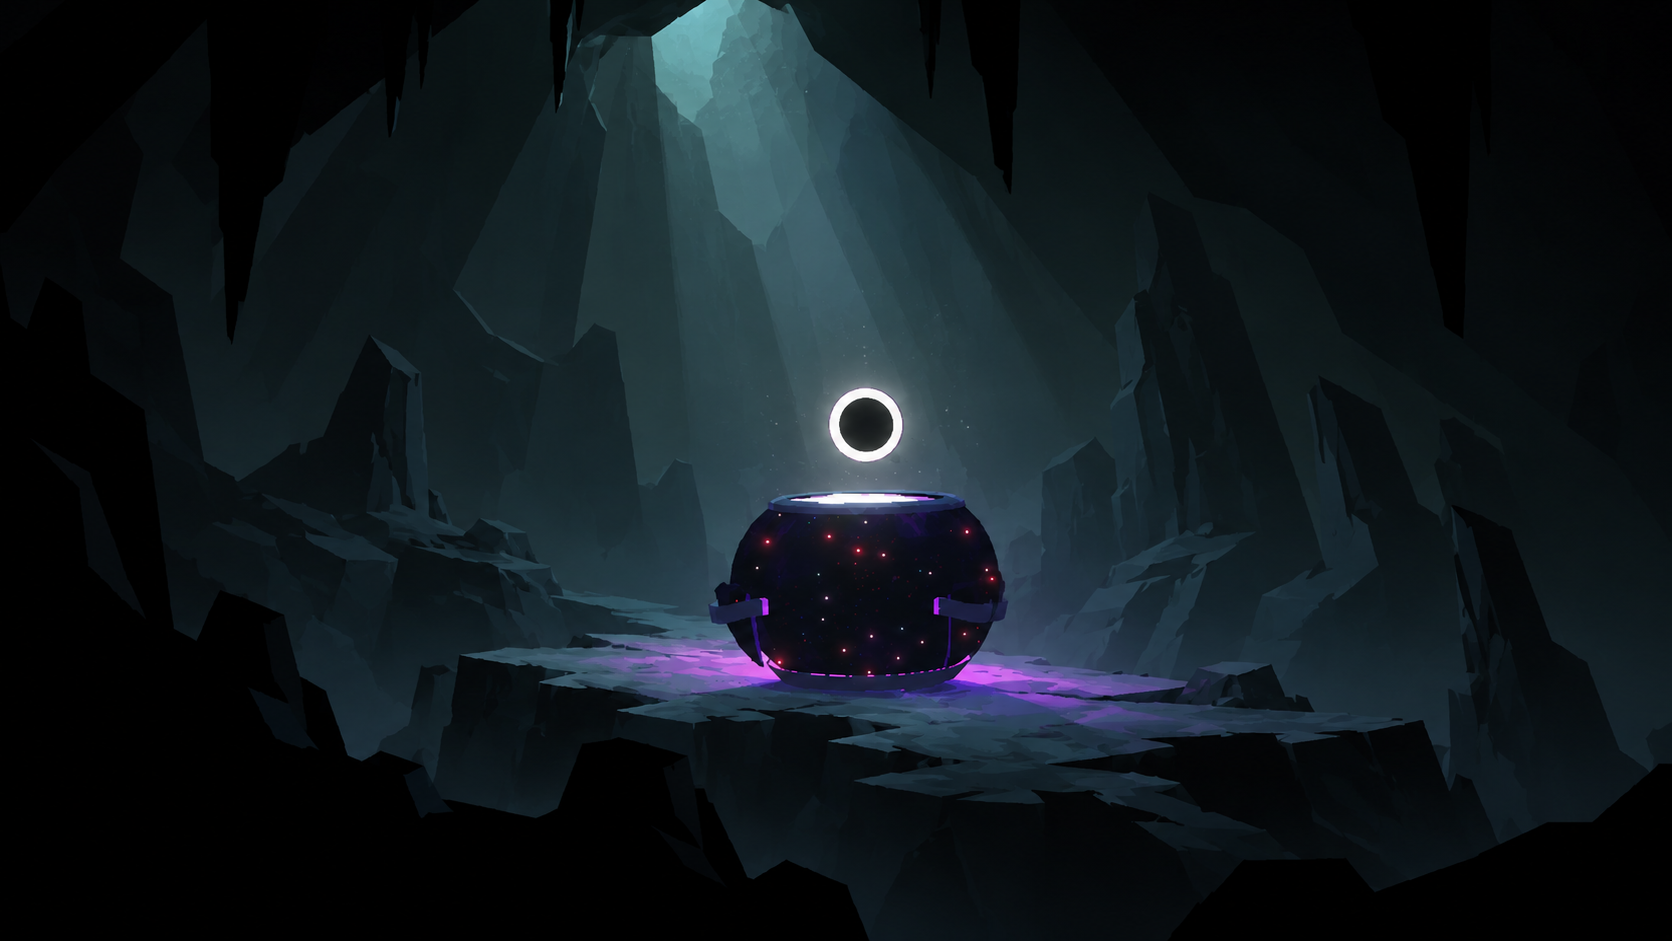
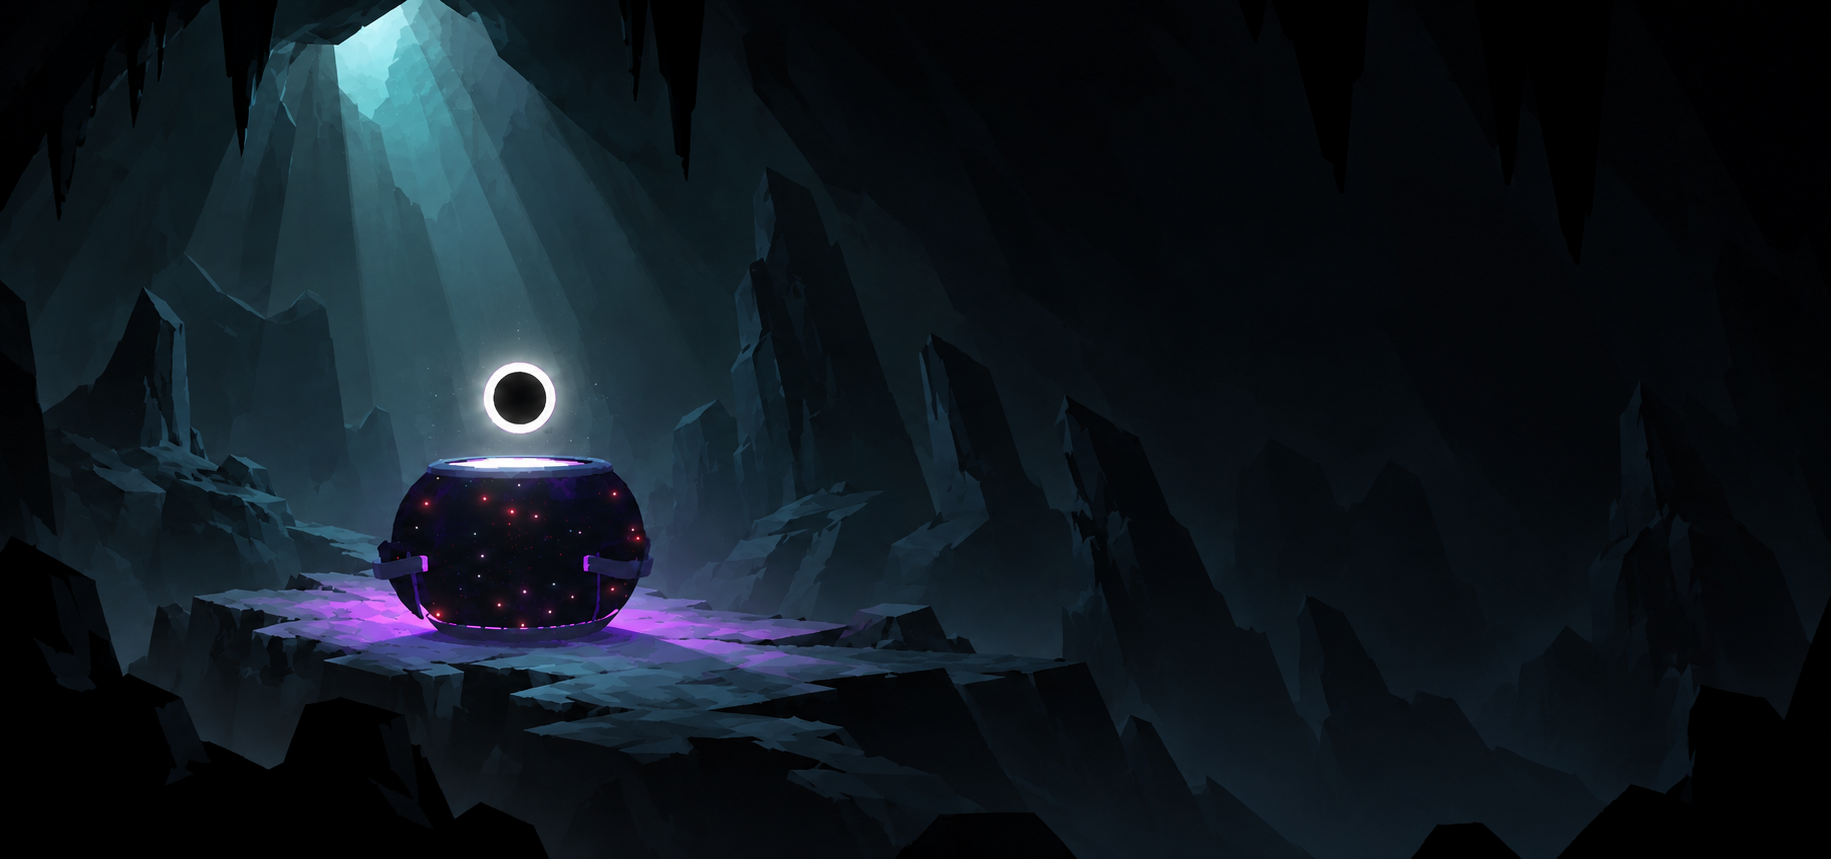
Restore full-screen Void Cradle scene, rewrite event and color all relic values for 0.9.3

diff --git a/Tests/Void090.cs b/Tests/Void090.cs
@@ -29,6 +29,7 @@ using HarmonyLib;
 namespace Frostsworn.Tests;
 public static partial class Suite
 {
+ static bool HideVoidTestVotes(ref bool __result){__result=false;return false;}
  static async Task CheckVoid090()
  {
   var initialTree=(SceneTree)Engine.GetMainLoop();await initialTree.ToSignal(initialTree,SceneTree.SignalName.ProcessFrame);
@@ -132,7 +133,11 @@ public static partial class Suite
   Assert(ModelDb.Relic<FaceborrowMembrane>().DynamicDescription.GetRawText().Contains("[gold]力量[/gold]") && ModelDb.Relic<FaceborrowMembrane>().HoverTipsExcludingRelic.Count()==2,"Void relics highlight and expose native Strength/Dexterity tips");
   Assert(!ModelDb.Card<VoidInfection>().Description.GetRawText().Contains("永恒") && ModelDb.Card<VoidInfection>().Description.GetRawText().Contains("[gold]消耗[/gold]"),"Curse highlights Exhaust without manually duplicating automatic keywords");
   Assert(all.All(r=>r.DynamicDescription.GetRawText().Contains("\n使")),"counterpart suppression is always on a new line");
-  var fit=new TextureRect();VoidEventPortraitPatch.Fit(fit);Assert(fit.Size.X==860 && fit.StretchMode==TextureRect.StretchModeEnum.KeepAspectCentered && fit.OffsetRight<0,"event art fits in the left panel without overlapping the native option column");fit.Free();
+  Assert(ModelDb.Relic<LighthouseJelly>().DynamicDescription.GetRawText().Contains("[green]15%[/green]") && ModelDb.Relic<LighthouseJelly>().DynamicDescription.GetRawText().Contains("[blue]16[/blue]") && ModelDb.Relic<LighthouseJelly>().DynamicDescription.GetRawText().Contains("[green]11[/green]"),"healing and Max HP values are green while Block remains blue");
+  Assert(ModelDb.Relic<IceKey>().DynamicDescription.GetRawText().Contains("[blue]12[/blue]"),"original character relic damage values use native blue");
+  var intro=new LocString("events","FROSTSWORN_EVENT_VOID_CRADLE.pages.INITIAL.description").GetFormattedText();
+  Assert(intro.Contains("[purple][jitter]虚空摇篮[/jitter][/purple]") && intro.Contains("[red][jitter]虫子[/jitter][/red]"),"event narrative uses requested native purple/red jitter effects");
+  Assert(ev.CurrentOptions[0].Title.GetFormattedText()=="触碰" && ev.CurrentOptions[2].Title.GetFormattedText()=="无视并离开","new touch and leave option titles resolve");
   var curseText=ModelDb.Card<VoidInfection>().GetDescriptionForPile(PileType.None);
   Assert(System.Text.RegularExpressions.Regex.Matches(curseText,"永恒").Count==1 && System.Text.RegularExpressions.Regex.Matches(curseText,"消耗").Count==2,"native final Curse description includes one Exhaust rule and one Eternal rule");
   var tree=(SceneTree)Engine.GetMainLoop();
@@ -157,12 +162,12 @@ public static partial class Suite
   inspect.Visible=false;
   if(DisplayServer.GetName()!="headless"){
    await tree.ToSignal(tree.CreateTimer(.25),SceneTreeTimer.SignalName.Timeout);await tree.ToSignal(RenderingServer.Singleton,RenderingServer.SignalName.FramePostDraw);
-   tree.Root.GetTexture().GetImage().SavePng("C:/fz/sts2mod/outputs/void-collection-091.png");
+   tree.Root.GetTexture().GetImage().SavePng("C:/fz/sts2mod/outputs/void-collection-093.png");
   }
   inspect.Visible=true;inspect.GetNode<Control>("%Popup").Modulate=Colors.White;
   if(DisplayServer.GetName()!="headless"){
    await tree.ToSignal(tree.CreateTimer(.25),SceneTreeTimer.SignalName.Timeout);await tree.ToSignal(RenderingServer.Singleton,RenderingServer.SignalName.FramePostDraw);
-   tree.Root.GetTexture().GetImage().SavePng("C:/fz/sts2mod/outputs/void-compendium-091.png");
+   tree.Root.GetTexture().GetImage().SavePng("C:/fz/sts2mod/outputs/void-compendium-093.png");
   }
   if(DisplayServer.GetName()!="headless"){
    inspect.Visible=false;category.Visible=false;
@@ -170,12 +175,35 @@ public static partial class Suite
    var nativeLayout=ResourceLoader.Load<PackedScene>("res://scenes/events/default_event_layout.tscn").Instantiate<Control>();
    var canvas=new Control {Size=new Vector2(1920,1080)};tree.Root.AddChild(canvas);
    foreach(var child in nativeLayout.GetChildren().ToArray()){nativeLayout.RemoveChild(child);canvas.AddChild(child);}
-   var portrait=canvas.GetNode<TextureRect>("Portrait");portrait.Texture=ev.CreateInitialPortrait();VoidEventPortraitPatch.Fit(portrait);
+   var portrait=canvas.GetNode<TextureRect>("Portrait");portrait.Texture=ev.CreateInitialPortrait();
+   Assert(portrait.Size.X==2560 && portrait.StretchMode==TextureRect.StretchModeEnum.KeepAspectCentered,"event keeps the full native 2560px backdrop without custom panel scaling");
    var title=canvas.GetNode<MegaLabel>("VBoxContainer/Title");title.SetTextAutoSize(ev.Title.GetFormattedText());title.Modulate=Colors.White;
    var desc=canvas.GetNode<MegaRichTextLabel>("VBoxContainer/EventDescription");desc.SetTextAutoSize(new LocString("events","FROSTSWORN_EVENT_VOID_CRADLE.pages.INITIAL.description").GetFormattedText());desc.Modulate=Colors.White;
    canvas.GetNode<Control>("VBoxContainer/SharedEventLabel").Visible=false;
+   var options=canvas.GetNode<VBoxContainer>("VBoxContainer/OptionsContainer");
+   var votesMethod=AccessTools.Method(typeof(MegaCrit.Sts2.Core.Nodes.Events.NEventOptionButton),"ShouldDisplayPlayerVote");
+   var uiTestHarmony=new Harmony("Frostsworn.tests.event-render");
+   uiTestHarmony.Patch(votesMethod,prefix:new HarmonyMethod(typeof(Suite),nameof(HideVoidTestVotes)));
+   for(int i=0;i<ev.CurrentOptions.Count;i++){
+    var button=MegaCrit.Sts2.Core.Nodes.Events.NEventOptionButton.Create(ev,ev.CurrentOptions[i],i);options.AddChild(button);button.Modulate=Colors.White;
+   }
+
    await tree.ToSignal(tree.CreateTimer(.25),SceneTreeTimer.SignalName.Timeout);await tree.ToSignal(RenderingServer.Singleton,RenderingServer.SignalName.FramePostDraw);
-   tree.Root.GetTexture().GetImage().SavePng("C:/fz/sts2mod/outputs/void-event-091.png");canvas.Free();nativeLayout.Free();
+   Assert(options.GetGlobalRect().End.Y<=1080,"all three native event option buttons fit on screen with the new narrative");
+   tree.Root.GetTexture().GetImage().SavePng("C:/fz/sts2mod/outputs/void-event-093.png");
+   options.Visible=false;
+   foreach(var page in new[]{"TAKE","CORRUPT","LEAVE"}){
+    desc.SetTextAutoSize(new LocString("events",$"FROSTSWORN_EVENT_VOID_CRADLE.pages.{page}.description").GetFormattedText());
+    await tree.ToSignal(tree.CreateTimer(.15),SceneTreeTimer.SignalName.Timeout);await tree.ToSignal(RenderingServer.Singleton,RenderingServer.SignalName.FramePostDraw);
+    tree.Root.GetTexture().GetImage().SavePng($"C:/fz/sts2mod/outputs/void-event-{page.ToLowerInvariant()}-093.png");
+   }
+   canvas.Free();nativeLayout.Free();uiTestHarmony.UnpatchAll("Frostsworn.tests.event-render");
+  }
+  if(DisplayServer.GetName()!="headless"){
+   category.Visible=true;inspect.Visible=true;
+   AccessTools.Method(typeof(NInspectRelicScreen),"SetRelic").Invoke(inspect,new object[]{Array.FindIndex(all,r=>r is LighthouseJelly)});
+   await tree.ToSignal(tree.CreateTimer(.2),SceneTreeTimer.SignalName.Timeout);await tree.ToSignal(RenderingServer.Singleton,RenderingServer.SignalName.FramePostDraw);
+   tree.Root.GetTexture().GetImage().SavePng("C:/fz/sts2mod/outputs/void-relic-health-093.png");
   }
   var locTables=(Dictionary<string,MegaCrit.Sts2.Core.Localization.LocTable>)typeof(MegaCrit.Sts2.Core.Localization.LocManager).GetField("_tables",BindingFlags.NonPublic|BindingFlags.Instance)!.GetValue(MegaCrit.Sts2.Core.Localization.LocManager.Instance)!;
   foreach(var table in new[]{"cards","relics","powers","events","static_hover_tips"}){
@@ -184,9 +212,40 @@ public static partial class Suite
   Assert(all.All(r=>!System.Text.RegularExpressions.Regex.IsMatch(r.Title.GetFormattedText()+r.DynamicDescription.GetFormattedText(),"[\\u4e00-\\u9fff]")),"all 16 Void relics have complete English names and rules");
   Assert(!ModelDb.AllCards.Any(c=>c is not VoidInfection && c.Title=="Putrefaction"),"new English Curse title does not duplicate another registered card");
   Assert(ModelDb.Card<VoidInfection>().Title=="Putrefaction" && ev.Title.GetFormattedText()=="Void Cradle","new Curse and event have English localization");
+  if(DisplayServer.GetName()!="headless"){
+   inspect.Visible=false;category.Visible=false;
+   // Move native visual nodes into a neutral canvas: the test host has no room synchronizer.
+   var nativeLayout=ResourceLoader.Load<PackedScene>("res://scenes/events/default_event_layout.tscn").Instantiate<Control>();
+   var canvas=new Control {Size=new Vector2(1920,1080)};tree.Root.AddChild(canvas);
+   foreach(var child in nativeLayout.GetChildren().ToArray()){nativeLayout.RemoveChild(child);canvas.AddChild(child);}
+   var portrait=canvas.GetNode<TextureRect>("Portrait");portrait.Texture=ev.CreateInitialPortrait();
+   Assert(portrait.Size.X==2560 && portrait.StretchMode==TextureRect.StretchModeEnum.KeepAspectCentered,"event keeps the full native 2560px backdrop without custom panel scaling");
+   var title=canvas.GetNode<MegaLabel>("VBoxContainer/Title");title.SetTextAutoSize(ev.Title.GetFormattedText());title.Modulate=Colors.White;
+   var desc=canvas.GetNode<MegaRichTextLabel>("VBoxContainer/EventDescription");desc.SetTextAutoSize(new LocString("events","FROSTSWORN_EVENT_VOID_CRADLE.pages.INITIAL.description").GetFormattedText());desc.Modulate=Colors.White;
+   canvas.GetNode<Control>("VBoxContainer/SharedEventLabel").Visible=false;
+   var options=canvas.GetNode<VBoxContainer>("VBoxContainer/OptionsContainer");
+   var votesMethod=AccessTools.Method(typeof(MegaCrit.Sts2.Core.Nodes.Events.NEventOptionButton),"ShouldDisplayPlayerVote");
+   var uiTestHarmony=new Harmony("Frostsworn.tests.event-render");
+   uiTestHarmony.Patch(votesMethod,prefix:new HarmonyMethod(typeof(Suite),nameof(HideVoidTestVotes)));
+   for(int i=0;i<ev.CurrentOptions.Count;i++){
+    var button=MegaCrit.Sts2.Core.Nodes.Events.NEventOptionButton.Create(ev,ev.CurrentOptions[i],i);options.AddChild(button);button.Modulate=Colors.White;
+   }
+
+   await tree.ToSignal(tree.CreateTimer(.25),SceneTreeTimer.SignalName.Timeout);await tree.ToSignal(RenderingServer.Singleton,RenderingServer.SignalName.FramePostDraw);
+   Assert(options.GetGlobalRect().End.Y<=1080,"all three native event option buttons fit on screen with the new narrative");
+   tree.Root.GetTexture().GetImage().SavePng("C:/fz/sts2mod/outputs/void-event-eng-093.png");
+   options.Visible=false;
+   foreach(var page in new[]{"TAKE","CORRUPT","LEAVE"}){
+    desc.SetTextAutoSize(new LocString("events",$"FROSTSWORN_EVENT_VOID_CRADLE.pages.{page}.description").GetFormattedText());
+    await tree.ToSignal(tree.CreateTimer(.15),SceneTreeTimer.SignalName.Timeout);await tree.ToSignal(RenderingServer.Singleton,RenderingServer.SignalName.FramePostDraw);
+    tree.Root.GetTexture().GetImage().SavePng($"C:/fz/sts2mod/outputs/void-event-{page.ToLowerInvariant()}-eng-093.png");
+   }
+   canvas.Free();nativeLayout.Free();uiTestHarmony.UnpatchAll("Frostsworn.tests.event-render");
+  }
   inspect.Free();category.Free();collection.Free();TestMode.IsOn=true;
  }
 }
+
 
 
 

diff --git a/tools/void_content.py b/tools/void_content.py
@@ -18,7 +18,7 @@ RELICS=[
 ('MeristemTeeth','分生凿齿','Budding Incisors','每场战斗开始时，选择抽牌堆中的2张牌，在本场战斗中升级。然后选择其中1张置入弃牌堆。','At the start of each combat, choose 2 cards in your Draw Pile to Upgrade for this combat. Put 1 of them into your Discard Pile.','碎石钻','Stone Cracker'),
 ('HangingStarSac','倒悬星囊','Inverted Star Sac','在你的第4回合开始时，所有手牌在本回合耗能变为0。','At the start of your 4th turn, all cards in your Hand cost 0 this turn.','吊灯','Chandelier'),
 ('MarrowTouch','寄髓之触','Marrow-Tethered Touch','战斗胜利时，若你的生命值至少为最大生命值的50%，获得5点最大生命值。','At the end of combat, if you have at least 50% of your Max HP, gain 5 Max HP.','带骨肉','Meat on the Bone'),
-('MoldyCookie','发霉曲奇','Moldy Cookie','每两场战斗，该场战斗的所有卡牌奖励都获得升级。','Every 2nd combat, all card rewards from that combat are Upgraded.','吃不完的糖','Lasting Candy'),
+('MoldyCookie','发霉曲奇','Moldy Cookie','每2场战斗，该场战斗的所有卡牌奖励都获得升级。','Every 2nd combat, all card rewards from that combat are Upgraded.','吃不完的糖','Lasting Candy'),
 ('GymnospermPendant','裸子植物吊坠','Gymnosperm Pendant','使用药水时，获得2点敏捷。这些加成在你的每个回合结束时减少1点。','Whenever you use a Potion, gain 2 Dexterity. Lose 1 of this bonus at the end of each of your turns.','爬行动物饰品','Reptile Trinket'),
 ('OverdriveGearbox','超变速箱','Overdrive Gearbox','每打出7张牌，获得等于当前自身回合数两倍的活力，最多20点。','Every 7 cards you play, gain Vigor equal to twice your current turn number, up to 20.','音叉','Tuning Fork'),
 ('LighthouseJelly','灯塔水母','Lighthouse Jellyfish','当你即将死亡时，若最大生命值大于10，回复最大生命值的15%，获得16点格挡，并失去11点最大生命值。','When you would die, if you have more than 10 Max HP, heal 15% of your Max HP, gain 16 Block, and lose 11 Max HP.','蜥蜴尾巴','Lizard Tail'),
@@ -33,16 +33,16 @@ def apply(zh,en):
   ev='FROSTSWORN_EVENT_VOID_CRADLE'
   text={
   'title':('Void Cradle','虚空摇篮'),
-  'pages.INITIAL.description':('A violet-black pod hangs above the ground, slowly contracting and opening. An unfamiliar relic glimmers inside.\n\nAs you approach, one of your own relics begins to tremble. A slender tendril reaches from the cradle and curls around it, waiting.\n\nThere is something here to take. And something here willing to take what you carry. Neither exchange will leave you unchanged.','一枚紫黑色的茧悬在半空，外壳缓慢地收缩、舒张。壳缝里，一件陌生的遗物正散发着微光。\n\n你刚靠近，随身的遗物便轻轻震颤起来。细长的紫色触须从茧中探出，像是在等待你的允许。\n\n摇篮里有东西可以取走。它也愿意接纳你带来的东西。只是，无论哪一种交换，都不会原样归还。'),
-  'pages.INITIAL.options.TAKE.title':('Reach Inside','探入摇篮'),
-  'pages.INITIAL.options.TAKE.description':('Obtain Putrefaction. Obtain a random [color=#B780B0]Void Relic[/color].','获得一张[red]朽败[/red]。获得一件随机的[color=#B780B0]虚空遗物[/color]。'),
+  'pages.INITIAL.description':('As you pass through a dim cave, you glimpse a mysterious deep-purple glow in the darkness.\n\nDrawing closer, you discover a [purple][jitter]Void Cradle[/jitter][/purple]!\n\nA black-hole-like orb floats above it. There seem to be [purple][jitter]rare treasures[/jitter][/purple] inside.\n\nBut you also notice [red][jitter]insects[/jitter][/red] sleeping within the cradle. You would rather not wake them.','在穿过一个幽暗的洞穴时，你瞥见暗处散发的深紫色神秘光芒。\n\n当你靠近时，发现这居然是一个[purple][jitter]虚空摇篮[/jitter][/purple]！\n\n你注意到其上方有个黑洞般的球体，里面似乎有些[purple][jitter]珍奇之物[/jitter][/purple]。\n\n但同时你也看到摇篮内部沉睡的[red][jitter]虫子[/jitter][/red]，你可不想唤醒它们。'),
+  'pages.INITIAL.options.TAKE.title':('Touch','触碰'),
+  'pages.INITIAL.options.TAKE.description':('Obtain [red]Putrefaction[/red]. Obtain a random [color=#B780B0]Void Relic[/color].','获得一张[red]朽败[/red]。获得一件随机的[color=#B780B0]虚空遗物[/color]。'),
   'pages.INITIAL.options.CORRUPT.title':('Offer a Relic','献出遗物'),
-  'pages.INITIAL.options.CORRUPT.description':('Obtain Putrefaction. Corrupt a random eligible relic you own into its corresponding [color=#B780B0]Void Relic[/color]. Requires an eligible relic.','获得一张[red]朽败[/red]。随机选择一件已拥有且有对应虚空版本的遗物，将其腐化为对应的[color=#B780B0]虚空遗物[/color]。'),
-  'pages.INITIAL.options.LEAVE.title':('Leave','离开'),
+  'pages.INITIAL.options.CORRUPT.description':('Obtain [red]Putrefaction[/red]. Corrupt a random eligible relic you own into its corresponding [color=#B780B0]Void Relic[/color]. Requires an eligible relic.','获得一张[red]朽败[/red]。随机选择一件已拥有且有对应虚空版本的遗物，将其腐化为对应的[color=#B780B0]虚空遗物[/color]。'),
+  'pages.INITIAL.options.LEAVE.title':('Ignore and Leave','无视并离开'),
   'pages.INITIAL.options.LEAVE.description':('Leave the cradle untouched.','不触碰摇篮。'),
-  'pages.TAKE.description':('The shell parts without a sound. You take the relic. Something cold slips up your arm and vanishes beneath your skin.\n\nThe cradle is empty. Its slow pulse continues inside your chest.','外壳在你的指尖下无声裂开。\n\n你握住了那件遗物。一缕冰冷的触感顺着手臂钻入身体，等你松开手时，已经找不到它去了哪里。\n\n摇篮空了。那缓慢的搏动声，却还在你的胸腔里继续。'),
-  'pages.CORRUPT.description':('The cradle chooses. A tendril plucks a relic from your belongings and draws it inside.\n\nIt returns to your palm, familiar in outline, marked with impossible patterns. You turn it over. The patterns follow a moment later.\n\nSomething inside you turns with them.','触须替你作出了选择，卷住你随身的一件遗物，将它拖进壳缝。\n\n片刻后，它被送回了你的掌心。形状依稀熟悉，表面却多出了几道不该存在的纹路。\n\n你试着转动它。那些纹路迟了一瞬，才跟着转过来。你的身体深处，也有什么随之转动。'),
-  'pages.LEAVE.description':('You step away. The tendrils linger, then withdraw.\n\nOnly after you have walked some distance do your relics stop trembling.','你收回了手。触须在空中停留片刻，慢慢缩回茧中。\n\n走出很远后，你随身的遗物才终于停止震颤。')}
+  'pages.TAKE.description':('You reach into the orb and pull out [purple][jitter]something[/jitter][/purple]!\n\n[red]Ouch[/red]! It feels like insects have crawled onto you.','你将手伸进球体，拿出了[purple][jitter]什么东西[/jitter][/purple]！\n\n[red]好痛[/red]！似乎有虫子钻到你的身上了。'),
+  'pages.CORRUPT.description':('The orb swallows your relic. Moments later, a [purple]brand-new relic[/purple] falls to the ground.\n\nAs you reach for it, the [red][jitter]insects hiding underneath[/jitter][/red] immediately crawl onto you!','球体吞噬了你的遗物。片刻之后[purple]崭新的遗物[/purple]掉在地上。\n\n你伸手去拿，躲在底下的[red][jitter]虫子[/jitter][/red]立刻爬到了你的身上！'),
+  'pages.LEAVE.description':('You quietly walk away. You recognize those [red]insects[/red]. They are not easy to deal with.','你悄悄离开了。你认识这些[red]虫子[/red]，它们可不好处理。')}
   tables['events'].update({ev+'.'+k:v[0 if eng else 1] for k,v in text.items()})
   card='FROSTSWORN_CARD_VOID_INFECTION'
   tables['cards'].update({card+'.title':'Putrefaction' if eng else '朽败',card+'.description':'When this card is [gold]Exhausted[/gold], lose 5 HP.' if eng else '这张牌被[gold]消耗[/gold]时，失去5点生命。'})

diff --git a/tools/relic_numbers.py b/tools/relic_numbers.py
@@ -1,0 +1,31 @@
+"""Use native numeric BBCode colors in every mod relic description.
+
+Color only visible numbers: BBCode parameters (e.g. colors) stay intact.
+Healing and Max HP quantities/thresholds use green; other values use blue.
+"""
+import re
+TOKENS=re.compile(r'(\[[^\]]+\]|\{[^{}]+\})')
+NUMBERS=re.compile(r'\d+(?:\.\d+)?%?')
+def plain(text):return re.sub(r'\[[^\]]+\]','',text)
+def color_numbers(text):
+ parts=TOKENS.split(text); offset=0; colored=0; result=[]
+ for part in parts:
+  if part.startswith('['):
+   tag=part[1:-1].split('=')[0].lower()
+   if tag in ('blue','green','red','color'):colored+=1
+   elif tag in ('/blue','/green','/red','/color'):colored=max(0,colored-1)
+   result.append(part)
+  elif part.startswith('{') or colored:result.append(part)
+  else:
+   def replace(m):
+    before=plain(text[:offset+m.start()]); after=plain(text[offset+m.end():])
+    healing=bool(re.search(r'(?:回复|恢复|heal)\s*$',before,re.I))
+    maxhp=bool(re.search(r'最大生命值?(?:的|大于|至少为)?\s*$',before) or re.match(r'^\s*(?:点)?最大生命',after) or re.match(r'^\s*(?:(?:of|of your|of the)\s+)?Max HP\b',after,re.I))
+    color='green' if healing or maxhp else 'blue'
+    return f'[{color}]{m.group()}[/{color}]'
+   result.append(NUMBERS.sub(replace,part))
+  offset+=len(part)
+ return ''.join(result)
+def apply(tables):
+ for key,text in tables['relics'].items():
+  if key.endswith('.description'):tables['relics'][key]=color_numbers(text)

diff --git a/Source/VoidUi.cs b/Source/VoidUi.cs
@@ -82,22 +82,3 @@ public static class VoidCollectionNavigationPatch
     {if(__instance.GetNodeOrNull<NRelicCollectionCategory>("FrostswornVoidRelics") is {} section)__result.AddRange(section.GetGridItems());}
 }
 
-// Only adjust this event's native portrait slot; leave the text/options layout intact.
-[HarmonyPatch(typeof(MegaCrit.Sts2.Core.Nodes.Events.NEventLayout),"SetPortrait")]
-public static class VoidEventPortraitPatch
-{
-    public static void Fit(TextureRect portrait)
-    {
-        portrait.SetAnchorsAndOffsetsPreset(Control.LayoutPreset.Center);
-        portrait.OffsetLeft=-920;portrait.OffsetRight=-60;
-        portrait.OffsetTop=-300;portrait.OffsetBottom=350;
-        portrait.Scale=Vector2.One;portrait.PivotOffset=Vector2.Zero;
-        portrait.ExpandMode=TextureRect.ExpandModeEnum.IgnoreSize;
-        portrait.StretchMode=TextureRect.StretchModeEnum.KeepAspectCentered;
-    }
-    static void Postfix(MegaCrit.Sts2.Core.Nodes.Events.NEventLayout __instance)
-    {
-        if(AccessTools.Field(typeof(MegaCrit.Sts2.Core.Nodes.Events.NEventLayout),"_event").GetValue(__instance) is VoidCradle &&
-           __instance.GetNodeOrNull<TextureRect>("%Portrait") is {} portrait)Fit(portrait);
-    }
-}

diff --git a/tools/make_assets.py b/tools/make_assets.py
@@ -145,6 +145,9 @@ tables['static_hover_tips'].update({
 english = build_english(tables)
 from void_content import apply as apply_void_content
 apply_void_content(tables,english)
+from relic_numbers import apply as color_relic_numbers
+color_relic_numbers(tables)
+color_relic_numbers(english)
 for lang in ('zhs','eng','zht'):
     path=assets/'localization'/lang; path.mkdir(parents=True,exist_ok=True)
     for name,table in (english if lang=='eng' else tables).items(): (path/(name+'.json')).write_text(json.dumps(table,ensure_ascii=False,indent=2),encoding='utf-8')

diff --git a/Source/VersionInfo.Generated.cs b/Source/VersionInfo.Generated.cs
@@ -1,3 +1,3 @@
 // Generated by tools/version_info.py from mod_manifest.json.
 namespace Frostsworn;
-public static class FrostVersion { public const string Value = "0.9.2"; }
+public static class FrostVersion { public const string Value = "0.9.3"; }

diff --git a/README.md b/README.md
@@ -1,6 +1,8 @@
 # 霜誓者 Frostsworn
 
-当前版本 **0.9.2**，支持 Slay the Spire 2 **0.111.0** 与 RitsuLib **0.6.7**。
+当前版本 **0.9.3**，支持 Slay the Spire 2 **0.111.0** 与 RitsuLib **0.6.7**。
+
+0.9.3：恢复事件原版整屏场景布局，重构虚空摇篮背景构图；替换完整中英文事件文案及三选项结果，使用原版紫色/红色与抖动效果。25件遗物描述的数字统一为原版蓝色，回复与最大生命值相关数字为绿色。
 
 0.9.2：诅咒正式更名为“朽败 / Putrefaction”，同步事件与中英文文本；效果和存档标识保持不变。
 
